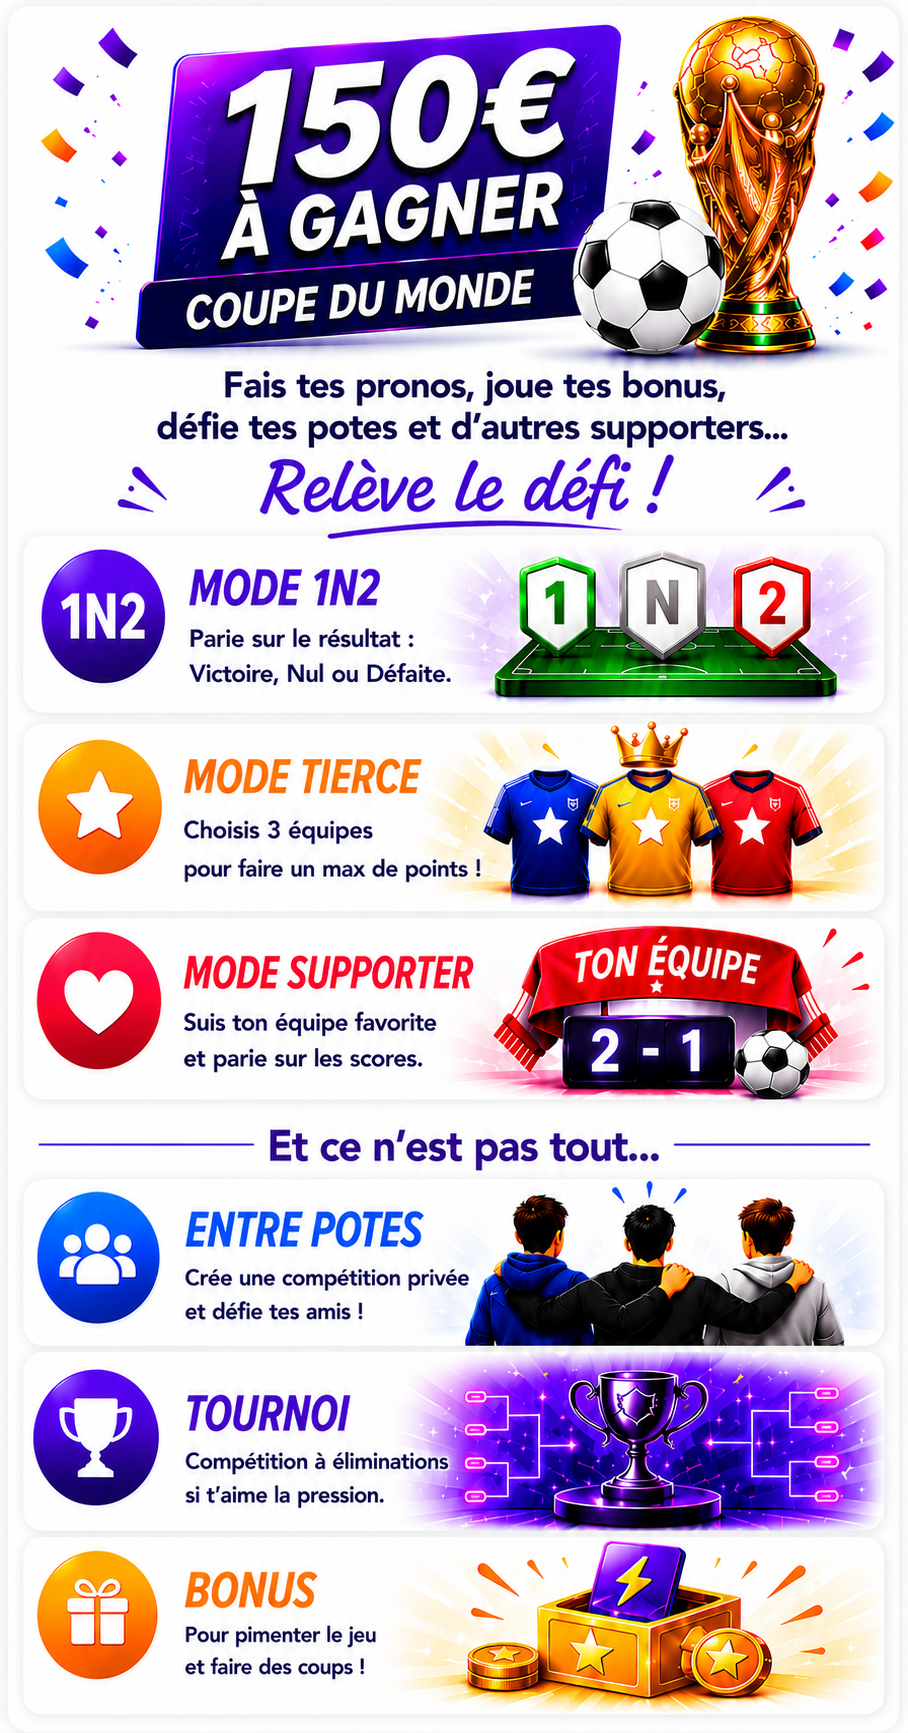
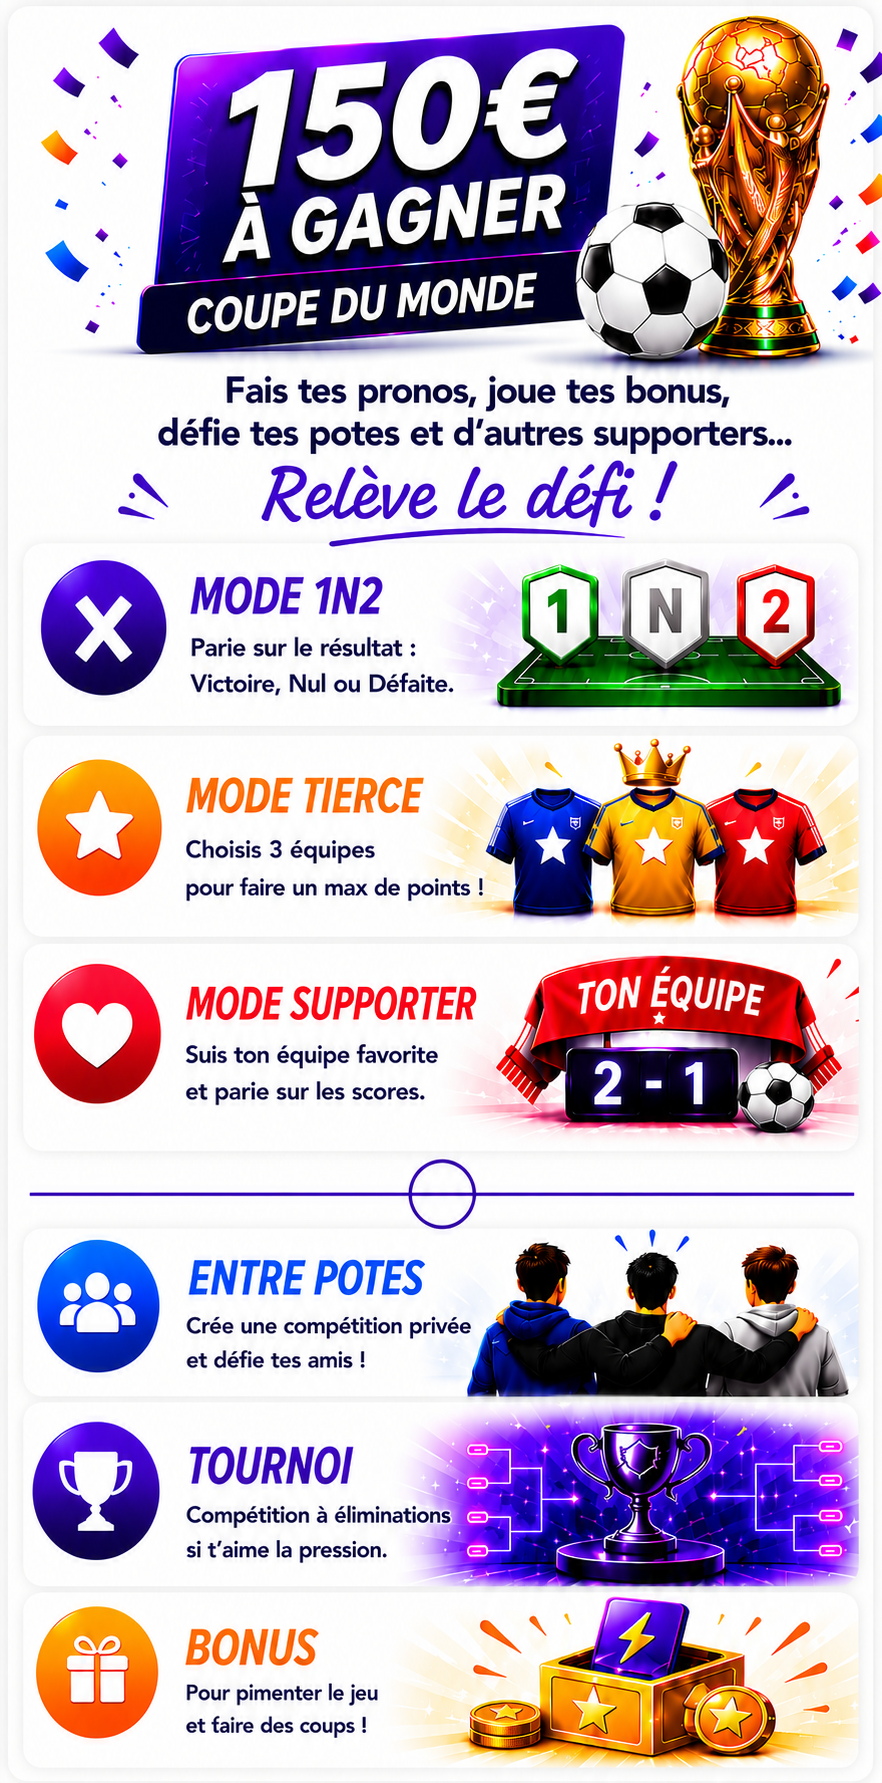
connexion apple

diff --git a/src/app/reset-password/page.tsx b/src/app/reset-password/page.tsx
@@ -15,15 +15,38 @@ export default function ResetPasswordPage() {
 
   useEffect(() => {
     const checkUser = async () => {
-      const { data, error } = await supabase.auth.getUser()
-      if (error || !data.user) {
+      try {
+        const params = new URLSearchParams(window.location.search)
+        const code = params.get('code')
+
+        if (code) {
+          const { error: exchangeError } = await supabase.auth.exchangeCodeForSession(code)
+
+          if (exchangeError) {
+            setError("Lien invalide ou expiré. Veuillez redemander un email.")
+            setLoading(false)
+            return
+          }
+
+          // Nettoie l'URL pour éviter de garder le code visible
+          window.history.replaceState({}, document.title, '/reset-password')
+        }
+
+        const { data, error } = await supabase.auth.getUser()
+
+        if (error || !data.user) {
+          setError("Lien invalide ou expiré. Veuillez redemander un email.")
+        } else {
+          setEmail(data.user.email || '')
+          setError('')
+        }
+      } catch (err) {
         setError("Lien invalide ou expiré. Veuillez redemander un email.")
-      } else {
-        setEmail(data.user.email || '')
-        setError('')
+      } finally {
+        setLoading(false)
       }
-      setLoading(false)
     }
+
     checkUser()
   }, [])
 